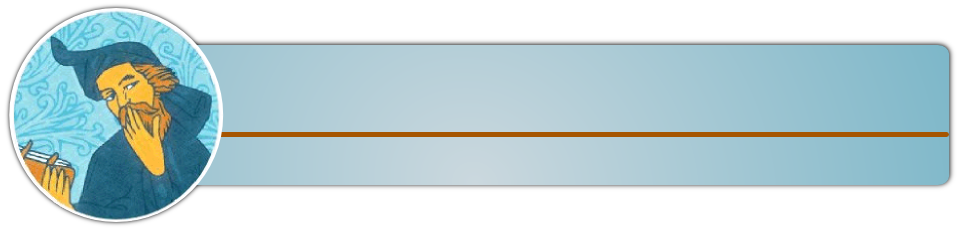
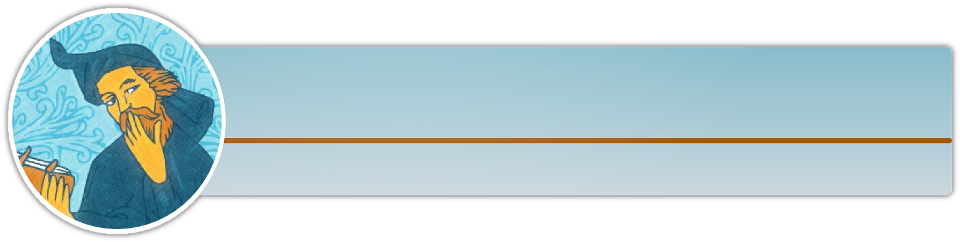
Grafika - textura a hlavicka

Changed region(s): [[0.0, 0.0304, 1.0, 0.9739], [0.0625, 0.0609, 0.0938, 0.0913]]

diff --git a/UJCSystem/MVCWebLayer/Styles/Style.css b/UJCSystem/MVCWebLayer/Styles/Style.css
@@ -32,11 +32,11 @@ a {
 
 .header {
     width: 690px;
-    height: 160px;
+    height: 167px;
     background: transparent url('../Images/header.png') center top no-repeat;
     margin-left: -10px;
     padding-left: 270px;
-    padding-top: 70px;
+    padding-top: 75px;
 }
 
 .header a {
